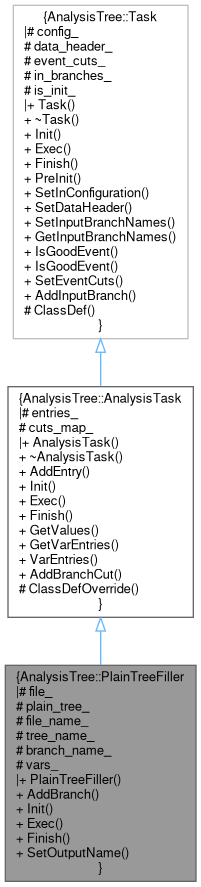
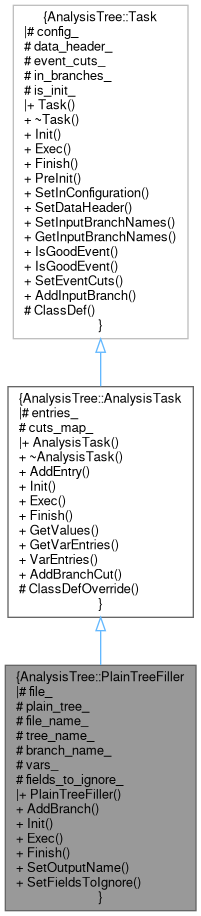
deploy: d4697f9fd17dfa592a267a95ca5a52b3a9905c9c

Changed region(s): [[0.0, 0.0, 0.9851, 1.0], [0.5373, 0.0, 0.7761, 0.0304], [0.9552, 0.4262, 0.9851, 0.4566]]

diff --git a/da/d10/classAnalysisTree_1_1PlainTreeFiller-members.html b/da/d10/classAnalysisTree_1_1PlainTreeFiller-members.html
@@ -93,22 +93,24 @@ $(function() {
   <tr bgcolor="#f0f0f0" class="odd"><td class="entry"><b>entries_</b> (defined in <a class="el" href="../../d0/d40/classAnalysisTree_1_1AnalysisTask.html">AnalysisTree::AnalysisTask</a>)</td><td class="entry"><a class="el" href="../../d0/d40/classAnalysisTree_1_1AnalysisTask.html">AnalysisTree::AnalysisTask</a></td><td class="entry"><span class="mlabel">protected</span></td></tr>
   <tr bgcolor="#f0f0f0" class="even"><td class="entry"><b>event_cuts_</b> (defined in <a class="el" href="../../d8/dcf/classAnalysisTree_1_1Task.html">AnalysisTree::Task</a>)</td><td class="entry"><a class="el" href="../../d8/dcf/classAnalysisTree_1_1Task.html">AnalysisTree::Task</a></td><td class="entry"><span class="mlabel">protected</span></td></tr>
   <tr bgcolor="#f0f0f0" class="odd"><td class="entry"><b>Exec</b>() override (defined in <a class="el" href="../../d0/d41/classAnalysisTree_1_1PlainTreeFiller.html">AnalysisTree::PlainTreeFiller</a>)</td><td class="entry"><a class="el" href="../../d0/d41/classAnalysisTree_1_1PlainTreeFiller.html">AnalysisTree::PlainTreeFiller</a></td><td class="entry"><span class="mlabel">virtual</span></td></tr>
-  <tr bgcolor="#f0f0f0" class="even"><td class="entry"><b>file_</b> (defined in <a class="el" href="../../d0/d41/classAnalysisTree_1_1PlainTreeFiller.html">AnalysisTree::PlainTreeFiller</a>)</td><td class="entry"><a class="el" href="../../d0/d41/classAnalysisTree_1_1PlainTreeFiller.html">AnalysisTree::PlainTreeFiller</a></td><td class="entry"><span class="mlabel">protected</span></td></tr>
-  <tr bgcolor="#f0f0f0" class="odd"><td class="entry"><b>file_name_</b> (defined in <a class="el" href="../../d0/d41/classAnalysisTree_1_1PlainTreeFiller.html">AnalysisTree::PlainTreeFiller</a>)</td><td class="entry"><a class="el" href="../../d0/d41/classAnalysisTree_1_1PlainTreeFiller.html">AnalysisTree::PlainTreeFiller</a></td><td class="entry"><span class="mlabel">protected</span></td></tr>
-  <tr bgcolor="#f0f0f0" class="even"><td class="entry"><b>Finish</b>() override (defined in <a class="el" href="../../d0/d41/classAnalysisTree_1_1PlainTreeFiller.html">AnalysisTree::PlainTreeFiller</a>)</td><td class="entry"><a class="el" href="../../d0/d41/classAnalysisTree_1_1PlainTreeFiller.html">AnalysisTree::PlainTreeFiller</a></td><td class="entry"><span class="mlabel">virtual</span></td></tr>
-  <tr bgcolor="#f0f0f0" class="odd"><td class="entry"><b>GetInputBranchNames</b>() const (defined in <a class="el" href="../../d8/dcf/classAnalysisTree_1_1Task.html">AnalysisTree::Task</a>)</td><td class="entry"><a class="el" href="../../d8/dcf/classAnalysisTree_1_1Task.html">AnalysisTree::Task</a></td><td class="entry"><span class="mlabel">inline</span></td></tr>
-  <tr bgcolor="#f0f0f0" class="even"><td class="entry"><b>GetValues</b>(int i_var) const (defined in <a class="el" href="../../d0/d40/classAnalysisTree_1_1AnalysisTask.html">AnalysisTree::AnalysisTask</a>)</td><td class="entry"><a class="el" href="../../d0/d40/classAnalysisTree_1_1AnalysisTask.html">AnalysisTree::AnalysisTask</a></td><td class="entry"><span class="mlabel">inline</span></td></tr>
-  <tr bgcolor="#f0f0f0" class="odd"><td class="entry"><b>GetVarEntries</b>() const (defined in <a class="el" href="../../d0/d40/classAnalysisTree_1_1AnalysisTask.html">AnalysisTree::AnalysisTask</a>)</td><td class="entry"><a class="el" href="../../d0/d40/classAnalysisTree_1_1AnalysisTask.html">AnalysisTree::AnalysisTask</a></td><td class="entry"><span class="mlabel">inline</span></td></tr>
-  <tr bgcolor="#f0f0f0" class="even"><td class="entry"><b>in_branches_</b> (defined in <a class="el" href="../../d8/dcf/classAnalysisTree_1_1Task.html">AnalysisTree::Task</a>)</td><td class="entry"><a class="el" href="../../d8/dcf/classAnalysisTree_1_1Task.html">AnalysisTree::Task</a></td><td class="entry"><span class="mlabel">protected</span></td></tr>
-  <tr bgcolor="#f0f0f0" class="odd"><td class="entry"><b>Init</b>() override (defined in <a class="el" href="../../d0/d41/classAnalysisTree_1_1PlainTreeFiller.html">AnalysisTree::PlainTreeFiller</a>)</td><td class="entry"><a class="el" href="../../d0/d41/classAnalysisTree_1_1PlainTreeFiller.html">AnalysisTree::PlainTreeFiller</a></td><td class="entry"><span class="mlabel">virtual</span></td></tr>
-  <tr bgcolor="#f0f0f0" class="even"><td class="entry"><b>is_init_</b> (defined in <a class="el" href="../../d8/dcf/classAnalysisTree_1_1Task.html">AnalysisTree::Task</a>)</td><td class="entry"><a class="el" href="../../d8/dcf/classAnalysisTree_1_1Task.html">AnalysisTree::Task</a></td><td class="entry"><span class="mlabel">protected</span></td></tr>
-  <tr bgcolor="#f0f0f0" class="odd"><td class="entry"><b>IsGoodEvent</b>(const EventHeader &amp;event_header) const (defined in <a class="el" href="../../d8/dcf/classAnalysisTree_1_1Task.html">AnalysisTree::Task</a>)</td><td class="entry"><a class="el" href="../../d8/dcf/classAnalysisTree_1_1Task.html">AnalysisTree::Task</a></td><td class="entry"><span class="mlabel">inline</span></td></tr>
-  <tr bgcolor="#f0f0f0" class="even"><td class="entry"><b>IsGoodEvent</b>(const Chain &amp;t) const (defined in <a class="el" href="../../d8/dcf/classAnalysisTree_1_1Task.html">AnalysisTree::Task</a>)</td><td class="entry"><a class="el" href="../../d8/dcf/classAnalysisTree_1_1Task.html">AnalysisTree::Task</a></td><td class="entry"></td></tr>
-  <tr bgcolor="#f0f0f0" class="odd"><td class="entry"><b>plain_tree_</b> (defined in <a class="el" href="../../d0/d41/classAnalysisTree_1_1PlainTreeFiller.html">AnalysisTree::PlainTreeFiller</a>)</td><td class="entry"><a class="el" href="../../d0/d41/classAnalysisTree_1_1PlainTreeFiller.html">AnalysisTree::PlainTreeFiller</a></td><td class="entry"><span class="mlabel">protected</span></td></tr>
-  <tr bgcolor="#f0f0f0" class="even"><td class="entry"><b>PlainTreeFiller</b>()=default (defined in <a class="el" href="../../d0/d41/classAnalysisTree_1_1PlainTreeFiller.html">AnalysisTree::PlainTreeFiller</a>)</td><td class="entry"><a class="el" href="../../d0/d41/classAnalysisTree_1_1PlainTreeFiller.html">AnalysisTree::PlainTreeFiller</a></td><td class="entry"></td></tr>
-  <tr bgcolor="#f0f0f0" class="odd"><td class="entry"><b>PreInit</b>() (defined in <a class="el" href="../../d8/dcf/classAnalysisTree_1_1Task.html">AnalysisTree::Task</a>)</td><td class="entry"><a class="el" href="../../d8/dcf/classAnalysisTree_1_1Task.html">AnalysisTree::Task</a></td><td class="entry"></td></tr>
-  <tr bgcolor="#f0f0f0" class="even"><td class="entry"><b>SetDataHeader</b>(const DataHeader *data_header) (defined in <a class="el" href="../../d8/dcf/classAnalysisTree_1_1Task.html">AnalysisTree::Task</a>)</td><td class="entry"><a class="el" href="../../d8/dcf/classAnalysisTree_1_1Task.html">AnalysisTree::Task</a></td><td class="entry"><span class="mlabel">inline</span></td></tr>
-  <tr bgcolor="#f0f0f0" class="odd"><td class="entry"><b>SetEventCuts</b>(Cuts *cuts) (defined in <a class="el" href="../../d8/dcf/classAnalysisTree_1_1Task.html">AnalysisTree::Task</a>)</td><td class="entry"><a class="el" href="../../d8/dcf/classAnalysisTree_1_1Task.html">AnalysisTree::Task</a></td><td class="entry"><span class="mlabel">inline</span></td></tr>
+  <tr bgcolor="#f0f0f0" class="even"><td class="entry"><b>fields_to_ignore_</b> (defined in <a class="el" href="../../d0/d41/classAnalysisTree_1_1PlainTreeFiller.html">AnalysisTree::PlainTreeFiller</a>)</td><td class="entry"><a class="el" href="../../d0/d41/classAnalysisTree_1_1PlainTreeFiller.html">AnalysisTree::PlainTreeFiller</a></td><td class="entry"><span class="mlabel">protected</span></td></tr>
+  <tr bgcolor="#f0f0f0" class="odd"><td class="entry"><b>file_</b> (defined in <a class="el" href="../../d0/d41/classAnalysisTree_1_1PlainTreeFiller.html">AnalysisTree::PlainTreeFiller</a>)</td><td class="entry"><a class="el" href="../../d0/d41/classAnalysisTree_1_1PlainTreeFiller.html">AnalysisTree::PlainTreeFiller</a></td><td class="entry"><span class="mlabel">protected</span></td></tr>
+  <tr bgcolor="#f0f0f0" class="even"><td class="entry"><b>file_name_</b> (defined in <a class="el" href="../../d0/d41/classAnalysisTree_1_1PlainTreeFiller.html">AnalysisTree::PlainTreeFiller</a>)</td><td class="entry"><a class="el" href="../../d0/d41/classAnalysisTree_1_1PlainTreeFiller.html">AnalysisTree::PlainTreeFiller</a></td><td class="entry"><span class="mlabel">protected</span></td></tr>
+  <tr bgcolor="#f0f0f0" class="odd"><td class="entry"><b>Finish</b>() override (defined in <a class="el" href="../../d0/d41/classAnalysisTree_1_1PlainTreeFiller.html">AnalysisTree::PlainTreeFiller</a>)</td><td class="entry"><a class="el" href="../../d0/d41/classAnalysisTree_1_1PlainTreeFiller.html">AnalysisTree::PlainTreeFiller</a></td><td class="entry"><span class="mlabel">virtual</span></td></tr>
+  <tr bgcolor="#f0f0f0" class="even"><td class="entry"><b>GetInputBranchNames</b>() const (defined in <a class="el" href="../../d8/dcf/classAnalysisTree_1_1Task.html">AnalysisTree::Task</a>)</td><td class="entry"><a class="el" href="../../d8/dcf/classAnalysisTree_1_1Task.html">AnalysisTree::Task</a></td><td class="entry"><span class="mlabel">inline</span></td></tr>
+  <tr bgcolor="#f0f0f0" class="odd"><td class="entry"><b>GetValues</b>(int i_var) const (defined in <a class="el" href="../../d0/d40/classAnalysisTree_1_1AnalysisTask.html">AnalysisTree::AnalysisTask</a>)</td><td class="entry"><a class="el" href="../../d0/d40/classAnalysisTree_1_1AnalysisTask.html">AnalysisTree::AnalysisTask</a></td><td class="entry"><span class="mlabel">inline</span></td></tr>
+  <tr bgcolor="#f0f0f0" class="even"><td class="entry"><b>GetVarEntries</b>() const (defined in <a class="el" href="../../d0/d40/classAnalysisTree_1_1AnalysisTask.html">AnalysisTree::AnalysisTask</a>)</td><td class="entry"><a class="el" href="../../d0/d40/classAnalysisTree_1_1AnalysisTask.html">AnalysisTree::AnalysisTask</a></td><td class="entry"><span class="mlabel">inline</span></td></tr>
+  <tr bgcolor="#f0f0f0" class="odd"><td class="entry"><b>in_branches_</b> (defined in <a class="el" href="../../d8/dcf/classAnalysisTree_1_1Task.html">AnalysisTree::Task</a>)</td><td class="entry"><a class="el" href="../../d8/dcf/classAnalysisTree_1_1Task.html">AnalysisTree::Task</a></td><td class="entry"><span class="mlabel">protected</span></td></tr>
+  <tr bgcolor="#f0f0f0" class="even"><td class="entry"><b>Init</b>() override (defined in <a class="el" href="../../d0/d41/classAnalysisTree_1_1PlainTreeFiller.html">AnalysisTree::PlainTreeFiller</a>)</td><td class="entry"><a class="el" href="../../d0/d41/classAnalysisTree_1_1PlainTreeFiller.html">AnalysisTree::PlainTreeFiller</a></td><td class="entry"><span class="mlabel">virtual</span></td></tr>
+  <tr bgcolor="#f0f0f0" class="odd"><td class="entry"><b>is_init_</b> (defined in <a class="el" href="../../d8/dcf/classAnalysisTree_1_1Task.html">AnalysisTree::Task</a>)</td><td class="entry"><a class="el" href="../../d8/dcf/classAnalysisTree_1_1Task.html">AnalysisTree::Task</a></td><td class="entry"><span class="mlabel">protected</span></td></tr>
+  <tr bgcolor="#f0f0f0" class="even"><td class="entry"><b>IsGoodEvent</b>(const EventHeader &amp;event_header) const (defined in <a class="el" href="../../d8/dcf/classAnalysisTree_1_1Task.html">AnalysisTree::Task</a>)</td><td class="entry"><a class="el" href="../../d8/dcf/classAnalysisTree_1_1Task.html">AnalysisTree::Task</a></td><td class="entry"><span class="mlabel">inline</span></td></tr>
+  <tr bgcolor="#f0f0f0" class="odd"><td class="entry"><b>IsGoodEvent</b>(const Chain &amp;t) const (defined in <a class="el" href="../../d8/dcf/classAnalysisTree_1_1Task.html">AnalysisTree::Task</a>)</td><td class="entry"><a class="el" href="../../d8/dcf/classAnalysisTree_1_1Task.html">AnalysisTree::Task</a></td><td class="entry"></td></tr>
+  <tr bgcolor="#f0f0f0" class="even"><td class="entry"><b>plain_tree_</b> (defined in <a class="el" href="../../d0/d41/classAnalysisTree_1_1PlainTreeFiller.html">AnalysisTree::PlainTreeFiller</a>)</td><td class="entry"><a class="el" href="../../d0/d41/classAnalysisTree_1_1PlainTreeFiller.html">AnalysisTree::PlainTreeFiller</a></td><td class="entry"><span class="mlabel">protected</span></td></tr>
+  <tr bgcolor="#f0f0f0" class="odd"><td class="entry"><b>PlainTreeFiller</b>()=default (defined in <a class="el" href="../../d0/d41/classAnalysisTree_1_1PlainTreeFiller.html">AnalysisTree::PlainTreeFiller</a>)</td><td class="entry"><a class="el" href="../../d0/d41/classAnalysisTree_1_1PlainTreeFiller.html">AnalysisTree::PlainTreeFiller</a></td><td class="entry"></td></tr>
+  <tr bgcolor="#f0f0f0" class="even"><td class="entry"><b>PreInit</b>() (defined in <a class="el" href="../../d8/dcf/classAnalysisTree_1_1Task.html">AnalysisTree::Task</a>)</td><td class="entry"><a class="el" href="../../d8/dcf/classAnalysisTree_1_1Task.html">AnalysisTree::Task</a></td><td class="entry"></td></tr>
+  <tr bgcolor="#f0f0f0" class="odd"><td class="entry"><b>SetDataHeader</b>(const DataHeader *data_header) (defined in <a class="el" href="../../d8/dcf/classAnalysisTree_1_1Task.html">AnalysisTree::Task</a>)</td><td class="entry"><a class="el" href="../../d8/dcf/classAnalysisTree_1_1Task.html">AnalysisTree::Task</a></td><td class="entry"><span class="mlabel">inline</span></td></tr>
+  <tr bgcolor="#f0f0f0" class="even"><td class="entry"><b>SetEventCuts</b>(Cuts *cuts) (defined in <a class="el" href="../../d8/dcf/classAnalysisTree_1_1Task.html">AnalysisTree::Task</a>)</td><td class="entry"><a class="el" href="../../d8/dcf/classAnalysisTree_1_1Task.html">AnalysisTree::Task</a></td><td class="entry"><span class="mlabel">inline</span></td></tr>
+  <tr bgcolor="#f0f0f0" class="odd"><td class="entry"><b>SetFieldsToIgnore</b>(const std::vector&lt; std::string &gt; &amp;&amp;fields_to_ignore) (defined in <a class="el" href="../../d0/d41/classAnalysisTree_1_1PlainTreeFiller.html">AnalysisTree::PlainTreeFiller</a>)</td><td class="entry"><a class="el" href="../../d0/d41/classAnalysisTree_1_1PlainTreeFiller.html">AnalysisTree::PlainTreeFiller</a></td><td class="entry"></td></tr>
   <tr bgcolor="#f0f0f0" class="even"><td class="entry"><b>SetInConfiguration</b>(const Configuration *config) (defined in <a class="el" href="../../d8/dcf/classAnalysisTree_1_1Task.html">AnalysisTree::Task</a>)</td><td class="entry"><a class="el" href="../../d8/dcf/classAnalysisTree_1_1Task.html">AnalysisTree::Task</a></td><td class="entry"><span class="mlabel">inline</span></td></tr>
   <tr bgcolor="#f0f0f0" class="odd"><td class="entry"><b>SetInputBranchNames</b>(const std::set&lt; std::string &gt; &amp;br) (defined in <a class="el" href="../../d8/dcf/classAnalysisTree_1_1Task.html">AnalysisTree::Task</a>)</td><td class="entry"><a class="el" href="../../d8/dcf/classAnalysisTree_1_1Task.html">AnalysisTree::Task</a></td><td class="entry"><span class="mlabel">inline</span></td></tr>
   <tr bgcolor="#f0f0f0" class="even"><td class="entry"><b>SetOutputName</b>(std::string file, std::string tree) (defined in <a class="el" href="../../d0/d41/classAnalysisTree_1_1PlainTreeFiller.html">AnalysisTree::PlainTreeFiller</a>)</td><td class="entry"><a class="el" href="../../d0/d41/classAnalysisTree_1_1PlainTreeFiller.html">AnalysisTree::PlainTreeFiller</a></td><td class="entry"><span class="mlabel">inline</span></td></tr>

diff --git a/d0/d41/classAnalysisTree_1_1PlainTreeFiller.html b/d0/d41/classAnalysisTree_1_1PlainTreeFiller.html
@@ -85,7 +85,7 @@ Inheritance diagram for AnalysisTree::PlainTreeFiller:</div>
 <div class="dyncontent">
 <div class="center"><img src="../../d0/d55/classAnalysisTree_1_1PlainTreeFiller__inherit__graph.png" border="0" usemap="#aAnalysisTree_1_1PlainTreeFiller_inherit__map" alt="Inheritance graph"/></div>
 <map name="aAnalysisTree_1_1PlainTreeFiller_inherit__map" id="aAnalysisTree_1_1PlainTreeFiller_inherit__map">
-<area shape="rect" title=" " alt="" coords="5,665,196,881"/>
+<area shape="rect" title=" " alt="" coords="5,665,196,911"/>
 <area shape="rect" href="../../d0/d40/classAnalysisTree_1_1AnalysisTask.html" title="AnalysisTask is a Task which keeps list of AnalysisEntry&#45;s It evaluates Variables according to the ru..." alt="" coords="8,387,193,617"/>
 <area shape="rect" href="../../d8/dcf/classAnalysisTree_1_1Task.html" title=" " alt="" coords="13,5,188,339"/>
 </map>
@@ -95,7 +95,7 @@ Collaboration diagram for AnalysisTree::PlainTreeFiller:</div>
 <div class="dyncontent">
 <div class="center"><img src="../../d1/d7e/classAnalysisTree_1_1PlainTreeFiller__coll__graph.png" border="0" usemap="#aAnalysisTree_1_1PlainTreeFiller_coll__map" alt="Collaboration graph"/></div>
 <map name="aAnalysisTree_1_1PlainTreeFiller_coll__map" id="aAnalysisTree_1_1PlainTreeFiller_coll__map">
-<area shape="rect" title=" " alt="" coords="235,1124,426,1340"/>
+<area shape="rect" title=" " alt="" coords="235,1124,426,1369"/>
 <area shape="rect" href="../../d0/d40/classAnalysisTree_1_1AnalysisTask.html" title="AnalysisTask is a Task which keeps list of AnalysisEntry&#45;s It evaluates Variables according to the ru..." alt="" coords="238,844,423,1075"/>
 <area shape="rect" href="../../d8/dcf/classAnalysisTree_1_1Task.html" title=" " alt="" coords="243,505,418,795"/>
 <area shape="rect" href="../../d8/dee/classAnalysisTree_1_1Configuration.html" title="A class to store configuration of the whole AnalysisTree object." alt="" coords="5,117,219,421"/>
@@ -119,6 +119,9 @@ void&#160;</td><td class="memItemRight" valign="bottom"><b>AddBranch</b> (const 
 <tr class="memitem:aaf146eac9f236c613b78ecb8ccdfbaa5"><td class="memItemLeft" align="right" valign="top"><a id="aaf146eac9f236c613b78ecb8ccdfbaa5" name="aaf146eac9f236c613b78ecb8ccdfbaa5"></a>
 void&#160;</td><td class="memItemRight" valign="bottom"><b>SetOutputName</b> (std::string file, std::string tree)</td></tr>
 <tr class="separator:aaf146eac9f236c613b78ecb8ccdfbaa5"><td class="memSeparator" colspan="2">&#160;</td></tr>
+<tr class="memitem:a18343253085ffd7ee700c45cca8baa64"><td class="memItemLeft" align="right" valign="top"><a id="a18343253085ffd7ee700c45cca8baa64" name="a18343253085ffd7ee700c45cca8baa64"></a>
+void&#160;</td><td class="memItemRight" valign="bottom"><b>SetFieldsToIgnore</b> (const std::vector&lt; std::string &gt; &amp;&amp;fields_to_ignore)</td></tr>
+<tr class="separator:a18343253085ffd7ee700c45cca8baa64"><td class="memSeparator" colspan="2">&#160;</td></tr>
 <tr class="inherit_header pub_methods_classAnalysisTree_1_1AnalysisTask"><td colspan="2" onclick="javascript:toggleInherit('pub_methods_classAnalysisTree_1_1AnalysisTask')"><img src="../../closed.png" alt="-"/>&#160;Public Member Functions inherited from <a class="el" href="../../d0/d40/classAnalysisTree_1_1AnalysisTask.html">AnalysisTree::AnalysisTask</a></td></tr>
 <tr class="memitem:a55a89172eeb83e4cb3a183b709470e8b inherit pub_methods_classAnalysisTree_1_1AnalysisTask"><td class="memItemLeft" align="right" valign="top"><a id="a55a89172eeb83e4cb3a183b709470e8b" name="a55a89172eeb83e4cb3a183b709470e8b"></a>
 std::pair&lt; int, std::vector&lt; int &gt; &gt;&#160;</td><td class="memItemRight" valign="bottom"><b>AddEntry</b> (const <a class="el" href="../../d4/d1b/classAnalysisTree_1_1AnalysisEntry.html">AnalysisEntry</a> &amp;vars)</td></tr>
@@ -199,6 +202,9 @@ std::string&#160;</td><td class="memItemRight" valign="bottom"><b>branch_name_</
 <tr class="memitem:adf835d2609156b155f652e194b0c5868"><td class="memItemLeft" align="right" valign="top"><a id="adf835d2609156b155f652e194b0c5868" name="adf835d2609156b155f652e194b0c5868"></a>
 std::vector&lt; float &gt;&#160;</td><td class="memItemRight" valign="bottom"><b>vars_</b> {}</td></tr>
 <tr class="separator:adf835d2609156b155f652e194b0c5868"><td class="memSeparator" colspan="2">&#160;</td></tr>
+<tr class="memitem:a38fa3b44ea83885c8ca92c5c9ee89c41"><td class="memItemLeft" align="right" valign="top"><a id="a38fa3b44ea83885c8ca92c5c9ee89c41" name="a38fa3b44ea83885c8ca92c5c9ee89c41"></a>
+std::vector&lt; std::string &gt;&#160;</td><td class="memItemRight" valign="bottom"><b>fields_to_ignore_</b> {}</td></tr>
+<tr class="separator:a38fa3b44ea83885c8ca92c5c9ee89c41"><td class="memSeparator" colspan="2">&#160;</td></tr>
 <tr class="inherit_header pro_attribs_classAnalysisTree_1_1AnalysisTask"><td colspan="2" onclick="javascript:toggleInherit('pro_attribs_classAnalysisTree_1_1AnalysisTask')"><img src="../../closed.png" alt="-"/>&#160;Protected Attributes inherited from <a class="el" href="../../d0/d40/classAnalysisTree_1_1AnalysisTask.html">AnalysisTree::AnalysisTask</a></td></tr>
 <tr class="memitem:a1e34fdd548f185264ff03d97e1b6574d inherit pro_attribs_classAnalysisTree_1_1AnalysisTask"><td class="memItemLeft" align="right" valign="top"><a id="a1e34fdd548f185264ff03d97e1b6574d" name="a1e34fdd548f185264ff03d97e1b6574d"></a>
 std::vector&lt; <a class="el" href="../../d4/d1b/classAnalysisTree_1_1AnalysisEntry.html">AnalysisEntry</a> &gt;&#160;</td><td class="memItemRight" valign="bottom"><b>entries_</b> {}</td></tr>

diff --git a/db/da4/PlainTreeFiller_8hpp_source.html b/db/da4/PlainTreeFiller_8hpp_source.html
@@ -105,20 +105,23 @@ $(function() {
 <div class="line"><a id="l00027" name="l00027"></a><span class="lineno">   27</span>    tree_name_ = std::move(tree);</div>
 <div class="line"><a id="l00028" name="l00028"></a><span class="lineno">   28</span>  }</div>
 <div class="line"><a id="l00029" name="l00029"></a><span class="lineno">   29</span> </div>
-<div class="line"><a id="l00030" name="l00030"></a><span class="lineno">   30</span> <span class="keyword">protected</span>:</div>
-<div class="line"><a id="l00031" name="l00031"></a><span class="lineno">   31</span>  TFile* file_{<span class="keyword">nullptr</span>};</div>
-<div class="line"><a id="l00032" name="l00032"></a><span class="lineno">   32</span>  TTree* plain_tree_{<span class="keyword">nullptr</span>};</div>
-<div class="line"><a id="l00033" name="l00033"></a><span class="lineno">   33</span> </div>
-<div class="line"><a id="l00034" name="l00034"></a><span class="lineno">   34</span>  std::string file_name_{<span class="stringliteral">&quot;PlainTree.root&quot;</span>};</div>
-<div class="line"><a id="l00035" name="l00035"></a><span class="lineno">   35</span>  std::string tree_name_{<span class="stringliteral">&quot;PlainTree&quot;</span>};</div>
-<div class="line"><a id="l00036" name="l00036"></a><span class="lineno">   36</span>  std::string branch_name_;</div>
-<div class="line"><a id="l00037" name="l00037"></a><span class="lineno">   37</span> </div>
-<div class="line"><a id="l00038" name="l00038"></a><span class="lineno">   38</span>  std::vector&lt;float&gt; vars_{};</div>
-<div class="line"><a id="l00039" name="l00039"></a><span class="lineno">   39</span>};</div>
-<div class="line"><a id="l00040" name="l00040"></a><span class="lineno">   40</span> </div>
-<div class="line"><a id="l00041" name="l00041"></a><span class="lineno">   41</span>}<span class="comment">// namespace AnalysisTree</span></div>
-<div class="line"><a id="l00042" name="l00042"></a><span class="lineno">   42</span> </div>
-<div class="line"><a id="l00043" name="l00043"></a><span class="lineno">   43</span><span class="preprocessor">#endif</span><span class="comment">//ANALYSISTREE_PLAINTREEFILLER_H_</span></div>
+<div class="line"><a id="l00030" name="l00030"></a><span class="lineno">   30</span>  <span class="keywordtype">void</span> SetFieldsToIgnore(<span class="keyword">const</span> std::vector&lt;std::string&gt;&amp;&amp; fields_to_ignore);</div>
+<div class="line"><a id="l00031" name="l00031"></a><span class="lineno">   31</span> </div>
+<div class="line"><a id="l00032" name="l00032"></a><span class="lineno">   32</span> <span class="keyword">protected</span>:</div>
+<div class="line"><a id="l00033" name="l00033"></a><span class="lineno">   33</span>  TFile* file_{<span class="keyword">nullptr</span>};</div>
+<div class="line"><a id="l00034" name="l00034"></a><span class="lineno">   34</span>  TTree* plain_tree_{<span class="keyword">nullptr</span>};</div>
+<div class="line"><a id="l00035" name="l00035"></a><span class="lineno">   35</span> </div>
+<div class="line"><a id="l00036" name="l00036"></a><span class="lineno">   36</span>  std::string file_name_{<span class="stringliteral">&quot;PlainTree.root&quot;</span>};</div>
+<div class="line"><a id="l00037" name="l00037"></a><span class="lineno">   37</span>  std::string tree_name_{<span class="stringliteral">&quot;PlainTree&quot;</span>};</div>
+<div class="line"><a id="l00038" name="l00038"></a><span class="lineno">   38</span>  std::string branch_name_;</div>
+<div class="line"><a id="l00039" name="l00039"></a><span class="lineno">   39</span> </div>
+<div class="line"><a id="l00040" name="l00040"></a><span class="lineno">   40</span>  std::vector&lt;float&gt; vars_{};</div>
+<div class="line"><a id="l00041" name="l00041"></a><span class="lineno">   41</span>  std::vector&lt;std::string&gt; fields_to_ignore_{};</div>
+<div class="line"><a id="l00042" name="l00042"></a><span class="lineno">   42</span>};</div>
+<div class="line"><a id="l00043" name="l00043"></a><span class="lineno">   43</span> </div>
+<div class="line"><a id="l00044" name="l00044"></a><span class="lineno">   44</span>}<span class="comment">// namespace AnalysisTree</span></div>
+<div class="line"><a id="l00045" name="l00045"></a><span class="lineno">   45</span> </div>
+<div class="line"><a id="l00046" name="l00046"></a><span class="lineno">   46</span><span class="preprocessor">#endif</span><span class="comment">//ANALYSISTREE_PLAINTREEFILLER_H_</span></div>
 <div class="ttc" id="aclassAnalysisTree_1_1AnalysisTask_html"><div class="ttname"><a href="../../d0/d40/classAnalysisTree_1_1AnalysisTask.html">AnalysisTree::AnalysisTask</a></div><div class="ttdoc">AnalysisTask is a Task which keeps list of AnalysisEntry-s It evaluates Variables according to the ru...</div><div class="ttdef"><b>Definition:</b> AnalysisTask.hpp:21</div></div>
 <div class="ttc" id="aclassAnalysisTree_1_1PlainTreeFiller_html"><div class="ttname"><a href="../../d0/d41/classAnalysisTree_1_1PlainTreeFiller.html">AnalysisTree::PlainTreeFiller</a></div><div class="ttdef"><b>Definition:</b> PlainTreeFiller.hpp:15</div></div>
 <div class="ttc" id="anamespaceAnalysisTree_html"><div class="ttname"><a href="../../d9/d26/namespaceAnalysisTree.html">AnalysisTree</a></div><div class="ttdoc">Cuts keep list of SimpleCuts. Logical AND is applied for all SimpleCut in the Cuts object.</div><div class="ttdef"><b>Definition:</b> BranchConfig.cpp:10</div></div>

diff --git a/d0/d40/classAnalysisTree_1_1AnalysisTask.html b/d0/d40/classAnalysisTree_1_1AnalysisTask.html
@@ -92,7 +92,7 @@ Inheritance diagram for AnalysisTree::AnalysisTask:</div>
 <div class="center"><img src="../../d8/d40/classAnalysisTree_1_1AnalysisTask__inherit__graph.png" border="0" usemap="#aAnalysisTree_1_1AnalysisTask_inherit__map" alt="Inheritance graph"/></div>
 <map name="aAnalysisTree_1_1AnalysisTask_inherit__map" id="aAnalysisTree_1_1AnalysisTask_inherit__map">
 <area shape="rect" title="AnalysisTask is a Task which keeps list of AnalysisEntry&#45;s It evaluates Variables according to the ru..." alt="" coords="8,387,193,617"/>
-<area shape="rect" href="../../d0/d41/classAnalysisTree_1_1PlainTreeFiller.html" title=" " alt="" coords="5,665,196,881"/>
+<area shape="rect" href="../../d0/d41/classAnalysisTree_1_1PlainTreeFiller.html" title=" " alt="" coords="5,665,196,911"/>
 <area shape="rect" href="../../d8/dcf/classAnalysisTree_1_1Task.html" title=" " alt="" coords="13,5,188,339"/>
 </map>
 </div>

diff --git a/d8/dcf/classAnalysisTree_1_1Task.html b/d8/dcf/classAnalysisTree_1_1Task.html
@@ -91,7 +91,7 @@ Inheritance diagram for AnalysisTree::Task:</div>
 <area shape="rect" href="../../d1/df3/classAnalysisTree_1_1ToyMC.html" title=" " alt="" coords="217,387,365,764"/>
 <area shape="rect" href="../../d4/d4e/classUserTaskRead.html" title=" " alt="" coords="389,519,524,632"/>
 <area shape="rect" href="../../d0/d27/classUserTaskWrite.html" title=" " alt="" coords="548,519,683,632"/>
-<area shape="rect" href="../../d0/d41/classAnalysisTree_1_1PlainTreeFiller.html" title=" " alt="" coords="5,812,196,1028"/>
+<area shape="rect" href="../../d0/d41/classAnalysisTree_1_1PlainTreeFiller.html" title=" " alt="" coords="5,812,196,1057"/>
 </map>
 </div>
 <div class="dynheader">
